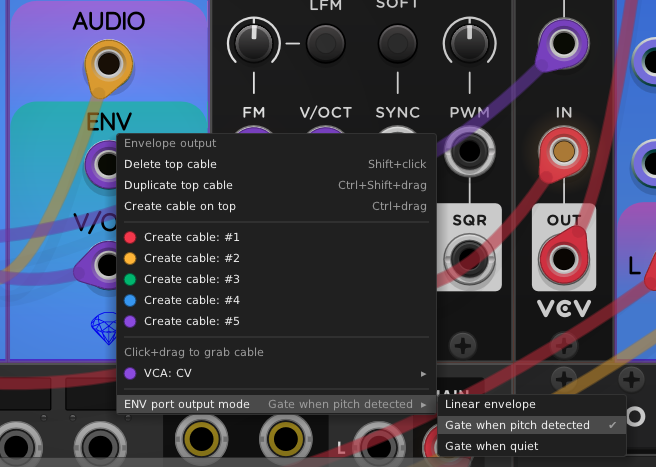
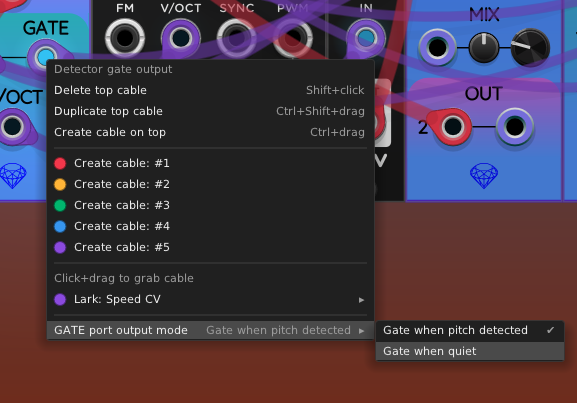
Env: updated doc to explain the new GATE port.

diff --git a/Env.md b/Env.md
@@ -17,7 +17,7 @@ Thanks to [BaconPaul](https://github.com/baconpaul/) of Surge XT for the idea fo
 
 ### Demo video
 
-Here I create a drone with [Tube Unit](TubeUnit.md), then use Env to extract a pitch and envelope CV signal from both stereo audio channels. I reconstruct a sawtooth wave from that pitch and envelope. Mix it all together and add some reverb! (Note: this video was made before I added the GAIN control.)
+Here I create a drone with [Tube Unit](TubeUnit.md), then use Env to extract a pitch and envelope CV signal from both stereo audio channels. I reconstruct a sawtooth wave from that pitch and envelope. Mix it all together and add some reverb! (Note: this video was made with a pre-release version of Env with a different panel design.)
 
 [![Sapphire Env demo](https://img.youtube.com/vi/P8HinJX07t4/0.jpg)](https://www.youtube.com/watch?v=P8HinJX07t4)
 
@@ -48,12 +48,12 @@ voltage across all the required output channels.
 For example, if a cable connected to AUDIO has 2 channels (stereo),
 and a cable connected to the FREQ CV input port has 1 channel,
 and there are no other input cables,
-then the outputs ENV and V/OCT will each have 2 channels.
+then the outputs ENV, GATE, and V/OCT will each have 2 channels.
 Because in this example the FREQ CV signal has only 1 channel, that one channel
 will be used to satisfy the second channel also.
 
 If instead you used a 2-channel FREQ CV input cable, each of the two output channels
-in the ENV and V/OCT ports would set their respective prefilters using the two CV voltages,
+in would set their respective prefilters using the two CV voltages,
 one for each channel in the output.
 
 This system of polyphony treats all of the input ports equally, using the rules explained above.
@@ -66,13 +66,22 @@ The AUDIO input port receives a cable with 1..16 channels of audio signal.
 
 ### Env Output
 
-When you right-click on the ENV port, you will see the following context menu:
+The ENV output port is polyphonic, and each of its channels represents
+the overall loudness (peak amplitude) of the input signal for that same channel.
+It can be used to control the amplitude of a VCA, or for any other desired control
+based on the input loudness.
+
+### Gate Output
+
+The GATE output port is related to the ENV port, but instead of a linear envelope
+signal, the output is a gate voltage that is either 0&nbsp;V or +10&nbsp;V.
+You can use GATE to signal either when a pitch is detected or when a pitch is NOT detected.
+
+When you right-click on the GATE port, you will see the following context menu:
 
 ![ENV port context menu](images/env_output_modes.png)
 
-The option "ENV port output mode" provides the following 3 options:
-
-* **Linear envelope**: This is the default mode. The ENV output port generates an amplitude signal that follows the overall amplitude of the input audio. The GAIN control adjusts the scale of the output voltage, as explained above. The envelope is not an audio-rate signal but a low-frequency CV signal that represents the volume of the input audio. Often envelope output will be used to drive a VCA that gates a voice, but other creative uses are possible.
+The option "GATE port output mode" provides the following two options:
 
 * **Gate when pitch detected**: Send a high gate of +10&nbsp;V when a pitch is being detected. Otherwise it sends 0&nbsp;V. THRESH controls the minimum input audio level at which we send a high gate.
 

diff --git a/doc/Env.md b/doc/Env.md
@@ -17,7 +17,7 @@ Thanks to [BaconPaul](https://github.com/baconpaul/) of Surge XT for the idea fo
 
 ### Demo video
 
-Here I create a drone with [Tube Unit](TubeUnit.md), then use Env to extract a pitch and envelope CV signal from both stereo audio channels. I reconstruct a sawtooth wave from that pitch and envelope. Mix it all together and add some reverb! (Note: this video was made before I added the GAIN control.)
+Here I create a drone with [Tube Unit](TubeUnit.md), then use Env to extract a pitch and envelope CV signal from both stereo audio channels. I reconstruct a sawtooth wave from that pitch and envelope. Mix it all together and add some reverb! (Note: this video was made with a pre-release version of Env with a different panel design.)
 
 [![Sapphire Env demo](https://img.youtube.com/vi/P8HinJX07t4/0.jpg)](https://www.youtube.com/watch?v=P8HinJX07t4)
 
@@ -48,12 +48,12 @@ voltage across all the required output channels.
 For example, if a cable connected to AUDIO has 2 channels (stereo),
 and a cable connected to the FREQ CV input port has 1 channel,
 and there are no other input cables,
-then the outputs ENV and V/OCT will each have 2 channels.
+then the outputs ENV, GATE, and V/OCT will each have 2 channels.
 Because in this example the FREQ CV signal has only 1 channel, that one channel
 will be used to satisfy the second channel also.
 
 If instead you used a 2-channel FREQ CV input cable, each of the two output channels
-in the ENV and V/OCT ports would set their respective prefilters using the two CV voltages,
+in would set their respective prefilters using the two CV voltages,
 one for each channel in the output.
 
 This system of polyphony treats all of the input ports equally, using the rules explained above.
@@ -66,13 +66,22 @@ The AUDIO input port receives a cable with 1..16 channels of audio signal.
 
 ### Env Output
 
-When you right-click on the ENV port, you will see the following context menu:
+The ENV output port is polyphonic, and each of its channels represents
+the overall loudness (peak amplitude) of the input signal for that same channel.
+It can be used to control the amplitude of a VCA, or for any other desired control
+based on the input loudness.
+
+### Gate Output
+
+The GATE output port is related to the ENV port, but instead of a linear envelope
+signal, the output is a gate voltage that is either 0&nbsp;V or +10&nbsp;V.
+You can use GATE to signal either when a pitch is detected or when a pitch is NOT detected.
+
+When you right-click on the GATE port, you will see the following context menu:
 
 ![ENV port context menu](images/env_output_modes.png)
 
-The option "ENV port output mode" provides the following 3 options:
-
-* **Linear envelope**: This is the default mode. The ENV output port generates an amplitude signal that follows the overall amplitude of the input audio. The GAIN control adjusts the scale of the output voltage, as explained above. The envelope is not an audio-rate signal but a low-frequency CV signal that represents the volume of the input audio. Often envelope output will be used to drive a VCA that gates a voice, but other creative uses are possible.
+The option "GATE port output mode" provides the following two options:
 
 * **Gate when pitch detected**: Send a high gate of +10&nbsp;V when a pitch is being detected. Otherwise it sends 0&nbsp;V. THRESH controls the minimum input audio level at which we send a high gate.
 
